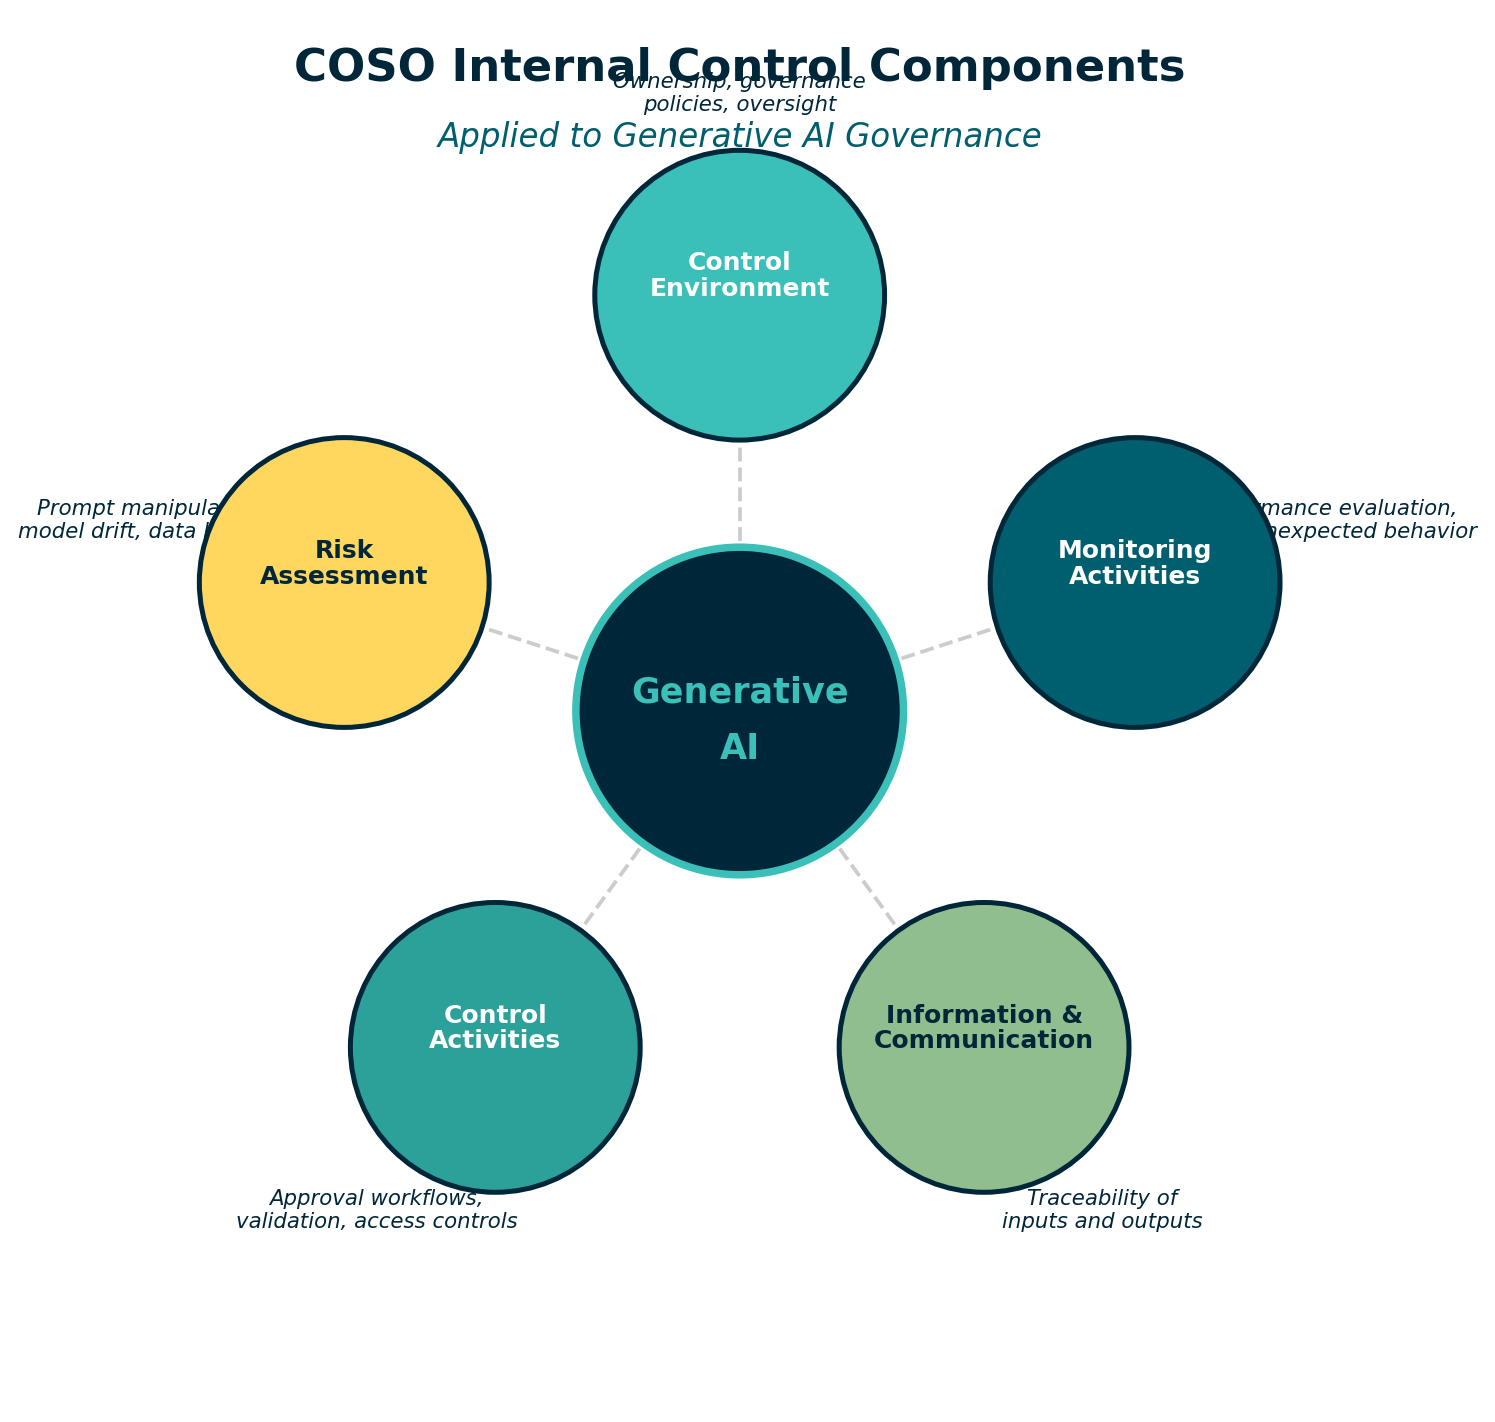
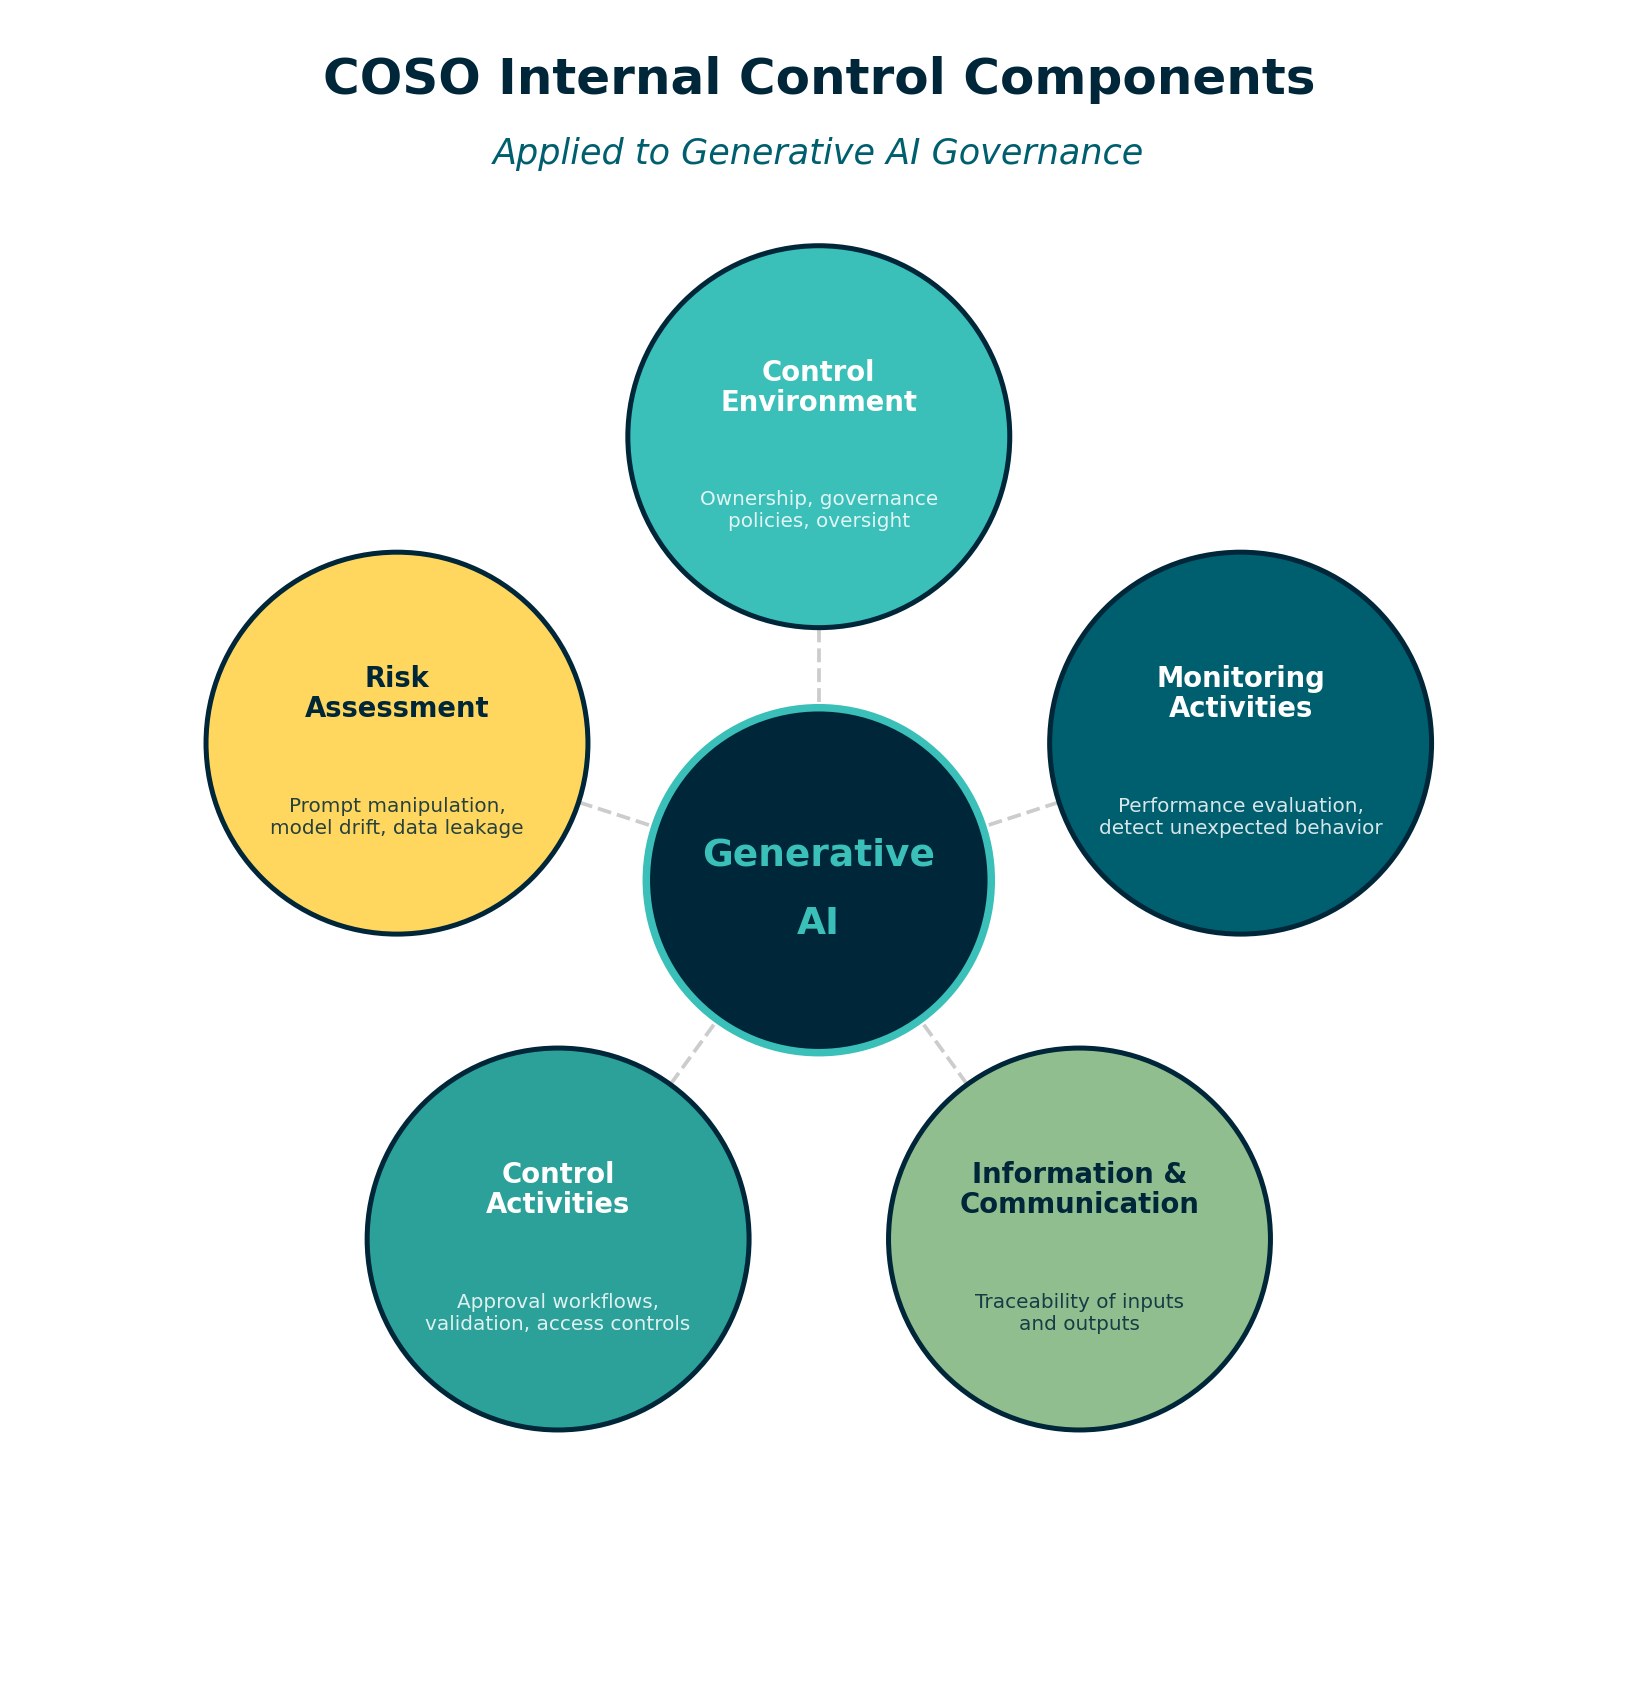
Fix COSO diagram: move descriptions inside bubbles, increase canvas size
Descriptions were clipping at edges and overlapping the title. Now all
text fits inside larger bubbles on a wider canvas.

diff --git a/articles/04-ai-governance-in-accounting/generate_visuals.py b/articles/04-ai-governance-in-accounting/generate_visuals.py
@@ -79,43 +79,45 @@ print(f"[OK] 04_visual_front.png  ->  {OUT_DIR}")
 # ─────────────────────────────────────────────────────────────────────────────
 # Visual 02 – COSO Five Components for Generative AI
 # ─────────────────────────────────────────────────────────────────────────────
-fig2, ax2 = plt.subplots(figsize=(10, 10))
+fig2, ax2 = plt.subplots(figsize=(12, 12))
 fig2.patch.set_facecolor(WHITE)
 ax2.set_facecolor(WHITE)
-ax2.set_xlim(-5.5, 5.5)
-ax2.set_ylim(-5.5, 5.5)
+ax2.set_xlim(-6.5, 6.5)
+ax2.set_ylim(-6.5, 7.0)
 ax2.set_aspect("equal")
 ax2.axis("off")
 
 # Title
-ax2.text(0, 5.1, "COSO Internal Control Components",
+ax2.text(0, 6.5, "COSO Internal Control Components",
          ha="center", va="center",
-         fontsize=18, fontweight="bold", color=DEEP_NAVY)
-ax2.text(0, 4.55, "Applied to Generative AI Governance",
+         fontsize=20, fontweight="bold", color=DEEP_NAVY)
+ax2.text(0, 5.9, "Applied to Generative AI Governance",
          ha="center", va="center",
-         fontsize=13, color=OCEAN_TEAL, fontstyle="italic")
+         fontsize=14, color=OCEAN_TEAL, fontstyle="italic")
 
 # Center circle – Generative AI
-center_circle = plt.Circle((0, 0), 1.3, facecolor=DEEP_NAVY,
+center_circle = plt.Circle((0, 0), 1.4, facecolor=DEEP_NAVY,
                             edgecolor=BRIGHT_TEAL, linewidth=3, zorder=5)
 ax2.add_patch(center_circle)
-ax2.text(0, 0.15, "Generative", ha="center", va="center",
-         fontsize=14, fontweight="bold", color=BRIGHT_TEAL, zorder=6)
-ax2.text(0, -0.3, "AI", ha="center", va="center",
-         fontsize=14, fontweight="bold", color=BRIGHT_TEAL, zorder=6)
+ax2.text(0, 0.2, "Generative", ha="center", va="center",
+         fontsize=15, fontweight="bold", color=BRIGHT_TEAL, zorder=6)
+ax2.text(0, -0.35, "AI", ha="center", va="center",
+         fontsize=15, fontweight="bold", color=BRIGHT_TEAL, zorder=6)
 
-# Five components around the center
+# Five components around the center — titles and descriptions combined inside
 components = [
-    ("Control\nEnvironment",    "Ownership, governance\npolicies, oversight"),
-    ("Risk\nAssessment",        "Prompt manipulation,\nmodel drift, data leakage"),
-    ("Control\nActivities",     "Approval workflows,\nvalidation, access controls"),
-    ("Information &\nCommunication", "Traceability of\ninputs and outputs"),
-    ("Monitoring\nActivities",  "Performance evaluation,\ndetect unexpected behavior"),
+    ("Control\nEnvironment",         "Ownership, governance\npolicies, oversight"),
+    ("Risk\nAssessment",             "Prompt manipulation,\nmodel drift, data leakage"),
+    ("Control\nActivities",          "Approval workflows,\nvalidation, access controls"),
+    ("Information &\nCommunication", "Traceability of inputs\nand outputs"),
+    ("Monitoring\nActivities",       "Performance evaluation,\ndetect unexpected behavior"),
 ]
 
 colors = [BRIGHT_TEAL, GOLDEN_YELLOW, SEA_GREEN, SOFT_SAGE, OCEAN_TEAL]
 text_colors = [WHITE, DEEP_NAVY, WHITE, DEEP_NAVY, WHITE]
-radius = 3.3
+desc_colors = [WHITE, DEEP_NAVY, WHITE, DEEP_NAVY, WHITE]
+radius = 3.6
+bubble_r = 1.55
 angles = [90, 162, 234, 306, 18]
 
 for i, (title, desc) in enumerate(components):
@@ -123,33 +125,30 @@ for i, (title, desc) in enumerate(components):
     cx = radius * np.cos(angle_rad)
     cy = radius * np.sin(angle_rad)
 
-    # Component circle
-    comp_circle = plt.Circle((cx, cy), 1.15, facecolor=colors[i],
+    # Component circle — larger to fit description inside
+    comp_circle = plt.Circle((cx, cy), bubble_r, facecolor=colors[i],
                               edgecolor=DEEP_NAVY, linewidth=2, zorder=3)
     ax2.add_patch(comp_circle)
 
-    # Component title
-    ax2.text(cx, cy + 0.15, title, ha="center", va="center",
-             fontsize=10, fontweight="bold", color=text_colors[i],
+    # Component title (upper half of bubble)
+    ax2.text(cx, cy + 0.4, title, ha="center", va="center",
+             fontsize=11, fontweight="bold", color=text_colors[i],
              linespacing=1.1, zorder=4)
 
+    # Description (lower half of bubble, smaller)
+    ax2.text(cx, cy - 0.6, desc, ha="center", va="center",
+             fontsize=8, color=desc_colors[i], alpha=0.85,
+             linespacing=1.2, zorder=4)
+
     # Connector line from center to component
-    inner_r = 1.35
-    outer_r = radius - 1.2
+    inner_r = 1.45
+    outer_r = radius - bubble_r + 0.05
     x1 = inner_r * np.cos(angle_rad)
     y1 = inner_r * np.sin(angle_rad)
     x2 = outer_r * np.cos(angle_rad)
     y2 = outer_r * np.sin(angle_rad)
     ax2.plot([x1, x2], [y1, y2], color=GRAY_LINE, linewidth=1.5,
              linestyle="--", zorder=1)
-
-    # Description label outside
-    label_r = radius + 1.6
-    lx = label_r * np.cos(angle_rad)
-    ly = label_r * np.sin(angle_rad)
-    ax2.text(lx, ly, desc, ha="center", va="center",
-             fontsize=8.5, color=DEEP_NAVY, fontstyle="italic",
-             linespacing=1.2, zorder=2)
 
 out_path2 = os.path.join(OUT_DIR, "04_coso_five_components.png")
 plt.savefig(out_path2, dpi=180, bbox_inches="tight")
